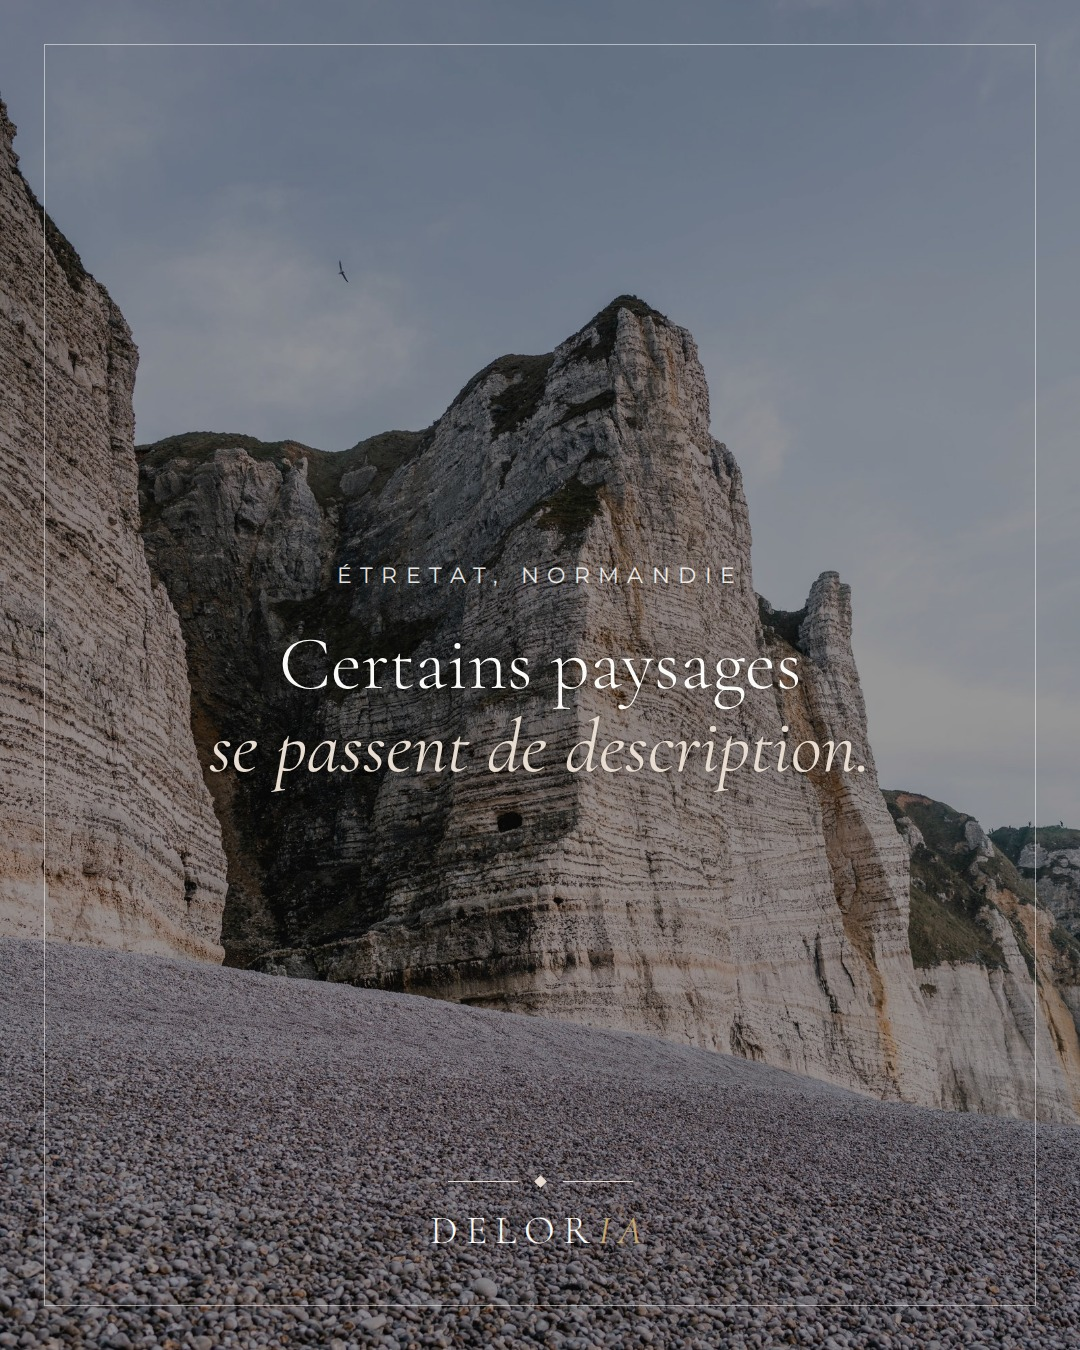
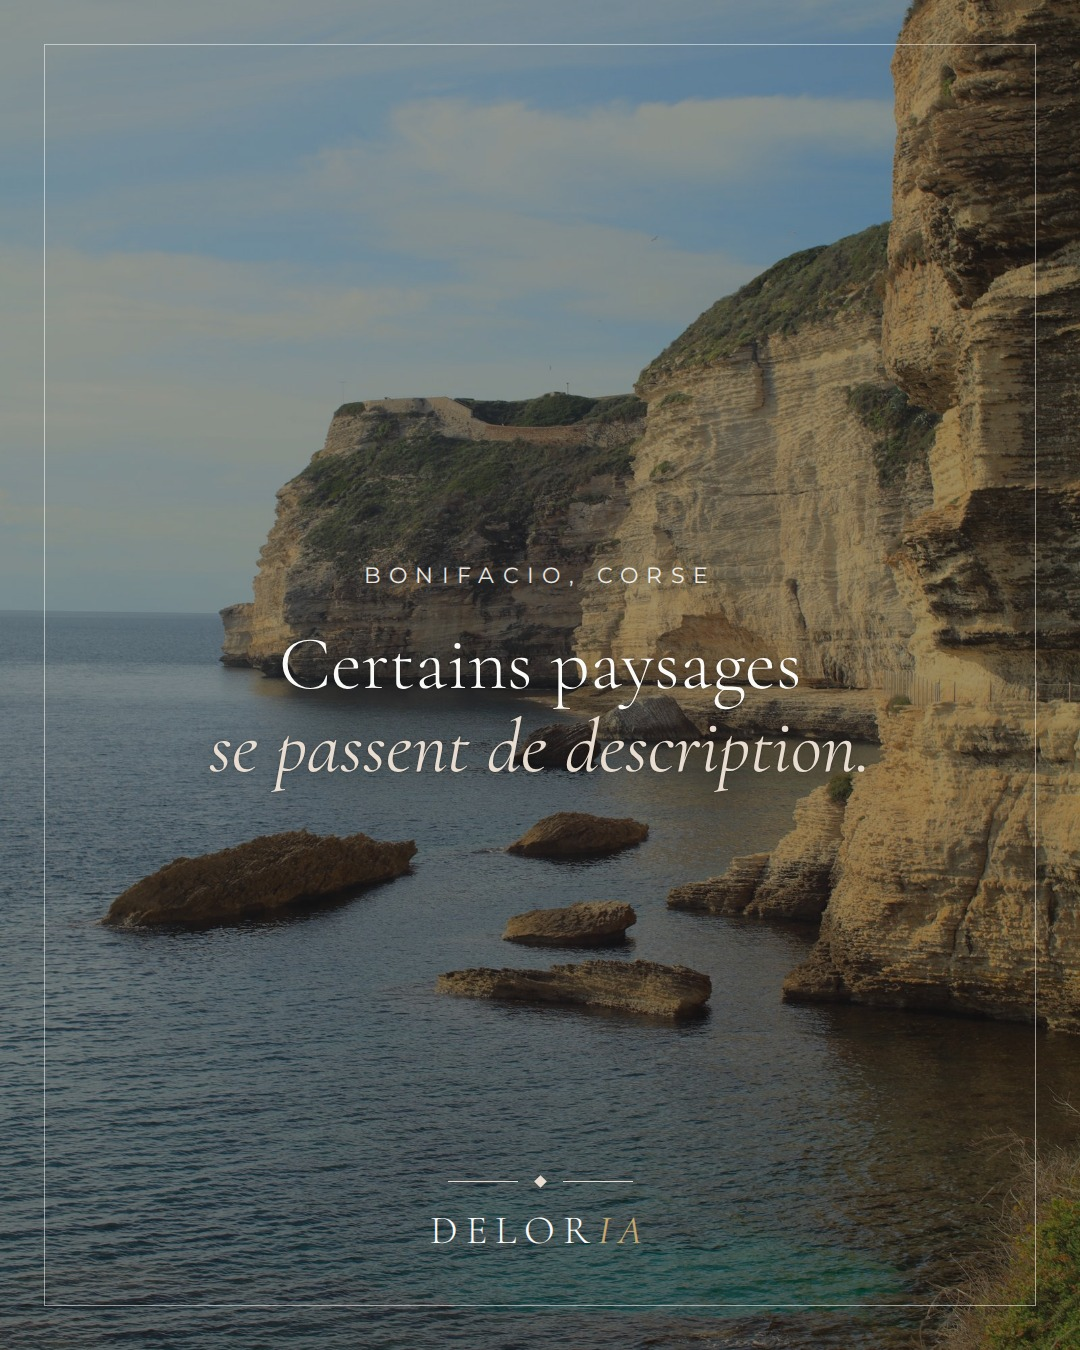
Photos de régions françaises à la place de dix posts normands
Claude-Session: https://claude.ai/code/session_01TujLWYW2PjtmBaj8Xy85aC

diff --git a/calendrier/contenu.py b/calendrier/contenu.py
@@ -100,12 +100,12 @@ Si vous voulez la même chose pour votre activité, parlons-en.
 
 {H_RESEAUX}"""),
 
-    dict(template="plein", photo="normandie-honfleur", lieu="Honfleur, Normandie", phrase="Honfleur s'éveille.\n*Vos messages aussi.*",
+    dict(template="plein", photo_fichier="region-paris#6", lieu="Paris", phrase="Paris s'éveille.\n*Vos messages aussi.*",
          legende=f"""Les premiers messages de la journée arrivent souvent avant le premier café : une heure d'arrivée, une question sur le petit-déjeuner, un train en retard.
 
-Un petit bout de Normandie pour commencer le week-end.
+Un peu de Paris pour commencer le week-end.
 
-#honfleur {H_NORM} #conciergerie"""),
+#paris #conciergerie #locationcourteduree"""),
 
     dict(template="terrain", label="Note de terrain",
          titre="Le prix affiché par l'outil *n'est pas celui que paie le voyageur.*",
@@ -187,10 +187,10 @@ Une identité claire, c'est des visuels cohérents partout : site, réseaux, dev
 
 {H_DESIGN}"""),
 
-    dict(template="plein", photo="normandie-falaises", lieu="Étretat, Normandie", phrase="Certains paysages\n*se passent de description.*",
-         legende=f"""Pas de conseil aujourd'hui. Juste Étretat.
+    dict(template="plein", photo_fichier="region-corse#2", lieu="Bonifacio, Corse", phrase="Certains paysages\n*se passent de description.*",
+         legende=f"""Pas de conseil aujourd'hui. Juste la Corse.
 
-#etretat {H_NORM} #cotedalbatre"""),
+#corse #bonifacio #france"""),
 
     dict(template="terrain_photo", photo="interieur-fenetre", label="Note de terrain",
          titre="Le silence *est le pire des échecs.*",
@@ -322,10 +322,10 @@ L'assistant répond dans la langue de chaque voyageur, avec les informations du 
 
 {H_CONC}"""),
 
-    dict(template="plein", photo="normandie-honfleur", lieu="Honfleur, Normandie", phrase="Les plus beaux ports\n*ne ferment jamais.*",
-         legende=f"""Honfleur en décembre. Bon week-end à tous.
+    dict(template="plein", photo_fichier="region-nice#3", lieu="Nice", phrase="Les plus beaux ports\n*ne ferment jamais.*",
+         legende=f"""Nice en décembre. Bon week-end à tous.
 
-#honfleur {H_NORM}"""),
+#nice #cotedazur #france"""),
 
     dict(template="service", label="Comment on démarre", titre="Commencer petit, *pour bien commencer.*",
          points=["Un appel pour comprendre votre quotidien", "Un premier logement pour tester", "On élargit quand tout fonctionne"],
@@ -397,10 +397,12 @@ Mieux vaut un assistant qui dit « je me renseigne » qu'un assistant qui invent
 
 {H_CONC}"""),
 
-    dict(template="plein", photo="normandie-campagne", phrase="Hors saison.\n*Calme, enfin.*",
-         legende=f"""Les chemins sont vides, les réservations plus rares. Le bon moment pour souffler, et pour préparer la saison.
+    dict(template="plein", photo_fichier="region-alpes#1", phrase="En montagne,\n*la saison bat son plein.*",
+         legende=f"""Pendant que le littoral se repose, les stations tournent à plein. Pour les conciergeries de montagne, janvier, c'est la haute saison.
 
-{H_NORM} #campagne"""),
+Bon courage à toutes celles qui enchaînent les arrivées ce week-end.
+
+#montagne #ski {H_CONC}"""),
 
     dict(template="edito", photo="secteur-industrie", label="Pour les PME industrielles",
          titre="Un devis prêt *avant la fin de l'appel.*",
@@ -455,14 +457,14 @@ Chaque métier a ses tâches répétitives. Parlons des vôtres.
 
 {H_PME} #artisan"""),
 
-    dict(template="plein", photo="normandie-falaises", lieu="Étretat, Normandie", phrase="Où que vous soyez,\n*tout se fait à distance.*",
+    dict(template="plein", photo_fichier="region-lyon#6", lieu="Lyon", phrase="Où que vous soyez,\n*tout se fait à distance.*",
          legende=f"""Je travaille avec des conciergeries et des entreprises dans toute la France.
 
 Un premier appel en visio suffit pour comprendre votre activité. La configuration, les tests et le suivi se font ensuite à distance, sans que vous ayez à vous déplacer.
 
 {CONTACT}
 
-#etretat {H_NORM} #france"""),
+#lyon #france"""),
 
     dict(template="terrain_photo", photo="details-carnet", label="Note de terrain",
          titre="Une information, *un seul endroit.*",
@@ -489,10 +491,10 @@ Et un interlocuteur unique, qui vous répond directement.
 
 {H_CONC} {H_DESIGN}"""),
 
-    dict(template="plein", photo="normandie-deauville", lieu="Deauville", phrase="Deauville hors saison.\n*Le temps de tout préparer.*",
-         legende=f"""Les planches sont calmes en janvier. Dans quelques semaines, les réservations du printemps arriveront.
+    dict(template="plein", photo_fichier="region-biarritz#3", lieu="Biarritz", phrase="Biarritz hors saison.\n*Le temps de tout préparer.*",
+         legende=f"""L'océan est calme en janvier. Dans quelques semaines, les réservations du printemps arriveront.
 
-#deauville {H_NORM}"""),
+#biarritz #paysbasque #france"""),
 
     # ─────────────── FÉVRIER 2027 ───────────────
     dict(template="edito", photo="secteur-restaurant", label="Exemple · Restaurant",
@@ -621,10 +623,10 @@ Le temps de configurer un premier logement, de vérifier les réponses et d'ajus
 
 {H_CONC}"""),
 
-    dict(template="plein", photo="normandie-falaises", lieu="Côte d'Albâtre", phrase="La côte se réveille.\n*Vos réservations aussi.*",
+    dict(template="plein", photo_fichier="region-bretagne#2", lieu="Bretagne", phrase="La côte se réveille.\n*Vos réservations aussi.*",
          legende=f"""Les premières réservations de printemps arrivent. Bon week-end.
 
-#cotedalbatre {H_NORM}"""),
+#bretagne #france"""),
 
     dict(template="terrain_photo", photo="details-carnet", label="Note de terrain",
          titre="Un outil sans surveillance *tombe en panne en silence.*",
@@ -672,10 +674,10 @@ Tester avec une seule situation, même dix fois, ne dit rien des autres. Avant c
 
 {H_CONC} {H_PME}"""),
 
-    dict(template="plein", photo="normandie-honfleur", lieu="Honfleur", phrase="Honfleur,\n*à l'heure où tout commence.*",
-         legende=f"""Les terrasses rouvrent, les voyageurs reviennent. La saison est lancée.
+    dict(template="plein", photo_fichier="region-provence#4", lieu="Provence", phrase="Les beaux jours\n*se préparent dès maintenant.*",
+         legende=f"""Les terrasses rouvrent, les voyageurs reviennent. Partout en France, la saison se lance.
 
-#honfleur {H_NORM}"""),
+#provence #france {H_CONC}"""),
 
     dict(template="edito", photo="secteur-boulangerie", label="Exemple · Commerce",
          titre="Vos horaires, vos produits, *toujours à jour.*",
@@ -723,7 +725,7 @@ Avant de répondre, l'assistant vérifie de quel logement il s'agit et ne répon
 {H_CONC}"""),
 
     # ─────────────── AVRIL 2027 ───────────────
-    dict(template="plein", photo="normandie-cote", phrase="Six mois de posts.\n*Aucun publié à la main.*",
+    dict(template="plein", photo_fichier="region-nice#4", phrase="Six mois de posts.\n*Aucun publié à la main.*",
          legende=f"""Depuis octobre, chaque publication de ce compte est partie toute seule, cinq fois par semaine. Visuels, textes, dates : tout était prêt à l'avance.
 
 Si vous voulez la même tranquillité pour votre activité, sur vos réseaux ou avec vos voyageurs, écrivez-moi.
@@ -779,10 +781,10 @@ L'automatisation sert justement à libérer du temps pour ce genre de détail.
 Une carte posée à l'entrée, et le message du soir disparaît.
 
 {H_ACC}"""),
-    dict(template="plein", photo="normandie-campagne", phrase="Un dimanche à la campagne,\n*sans notification.*",
+    dict(template="plein", photo_fichier="region-bordeaux#6", phrase="Un dimanche dans les vignes,\n*sans notification.*",
          legende=f"""Prenez le temps. Les messages attendront lundi.
 
-{H_NORM} #campagne"""),
+#vignes #campagne #france"""),
 
     # 31 octobre et 1er novembre
     dict(template="carte", photo_fichier="astuce-parapluie#4", label=ASTUCE,
@@ -1008,10 +1010,10 @@ Des photos justes, c'est un séjour qui commence bien.
          legende=f"""Ce n'est pas le grand ménage qui pose problème, ce sont les petits oublis. Une liste identique pour chaque passage, et ils disparaissent.
 
 {H_ACC}"""),
-    dict(template="plein", photo="normandie-campagne", phrase="Fin février.\n*Les jours rallongent.*",
+    dict(template="plein", photo_fichier="region-annecy#3", phrase="Fin février.\n*Les jours rallongent.*",
          legende=f"""La saison approche doucement. Bon dimanche.
 
-{H_NORM}"""),
+#lac #montagne #france"""),
 
     # 6 et 7 mars
     dict(template="carte", photo_fichier="astuce-jardin#4", label=ASTUCE,
